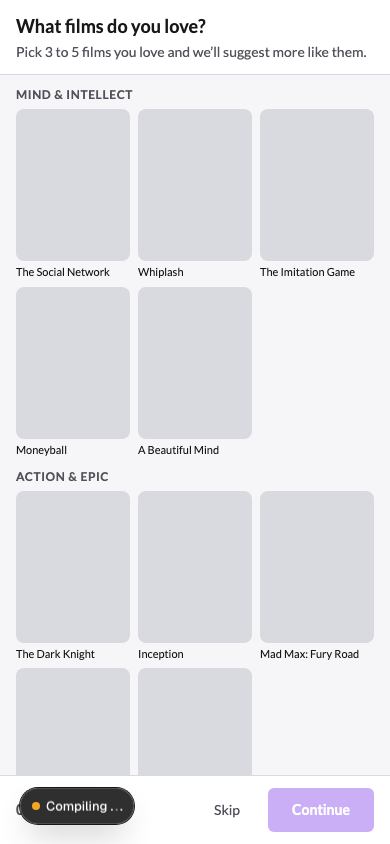
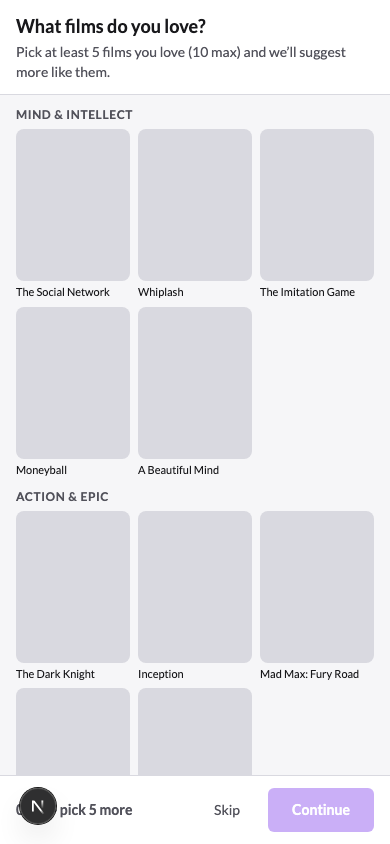
Require 5 picks, allow up to 10 in the onboarding pickers

diff --git a/app/onboarding/page.tsx b/app/onboarding/page.tsx
@@ -73,7 +73,7 @@ export default function OnboardingPage() {
   if (status === "loading" || status === "unauthenticated") return null;
 
   const count = selected.size;
-  const canSubmit = count >= 3 && count <= 5;
+  const canSubmit = count >= 10 && count <= 10;
 
   return (
     <div className="min-h-screen flex flex-col">
@@ -85,7 +85,7 @@ export default function OnboardingPage() {
               What films do you love?
             </h1>
             <p className="text-sm mt-0.5" style={{ color: "var(--text-muted)" }}>
-              Pick 3 to 5 films you love and we’ll suggest more like them
+              Pick at least 5 films (up to 10) you love and we’ll suggest more like them
             </p>
           </div>
           <div className="flex items-center gap-4">
@@ -96,7 +96,7 @@ export default function OnboardingPage() {
                 color: canSubmit ? "var(--color-accent-text)" : "var(--text-muted)",
               }}
             >
-              {count} / 5 selected
+              {count} / 10 selected
             </span>
             <button
               onClick={() => submit(false)}
@@ -133,11 +133,11 @@ export default function OnboardingPage() {
                   <button
                     key={movie.id}
                     onClick={() => toggle(movie.id)}
-                    disabled={!isSelected && count >= 5}
+                    disabled={!isSelected && count >= 10}
                     className="relative rounded-lg overflow-hidden group transition-all duration-200"
                     style={{
                       boxShadow: isSelected ? `0 0 0 3px var(--accent), 0 0 20px color-mix(in srgb, var(--accent) 40%, transparent)` : "none",
-                      opacity: !isSelected && count >= 5 ? 0.4 : 1,
+                      opacity: !isSelected && count >= 10 ? 0.4 : 1,
                     }}
                     title={movie.title}
                   >

diff --git a/components/movies/OnboardingModal.tsx b/components/movies/OnboardingModal.tsx
@@ -4,8 +4,8 @@ import { useState, useEffect } from "react";
 import Image from "next/image";
 import { ONBOARDING_CLUSTERS as CLUSTERS } from "@/lib/onboarding";
 
-const MIN_PICKS = 3;
-const MAX_PICKS = 5;
+const MIN_PICKS = 5;
+const MAX_PICKS = 10;
 const POSTER_BASE = "https://image.tmdb.org/t/p/w342";
 
 interface OnboardingModalProps {
@@ -100,7 +100,7 @@ export default function OnboardingModal({ onClose }: OnboardingModalProps) {
             What films do you love?
           </h1>
           <p className="text-sm mt-0.5" style={{ color: "var(--text-muted)" }}>
-            Pick {MIN_PICKS} to {MAX_PICKS} films you love and we’ll suggest more like them.
+            Pick at least {MIN_PICKS} films you love ({MAX_PICKS} max) and we’ll suggest more like them.
           </p>
         </div>
       </div>
@@ -191,7 +191,9 @@ export default function OnboardingModal({ onClose }: OnboardingModalProps) {
               style={{ color: canSubmit ? "var(--color-accent-text)" : "var(--text-muted)" }}
               aria-live="polite"
             >
-              {count} of {MAX_PICKS}{count < MIN_PICKS ? ` · pick ${MIN_PICKS - count} more` : ""}
+              {count < MIN_PICKS
+                ? `${count} of ${MIN_PICKS} · pick ${MIN_PICKS - count} more`
+                : `${count} picked, up to ${MAX_PICKS} for better picks`}
             </span>
             <button
               type="button"

diff --git a/e2e/smoke.e2e.ts b/e2e/smoke.e2e.ts
@@ -140,10 +140,10 @@ test("first-run onboarding picker works on a phone: titles shown, 5-pick cap, Es
   }));
   console.log(`onboarding scroll area: ${scrollH}px over a ${clientH}px viewport`);
 
-  // A 6th pick is blocked with a hint
-  for (let i = 0; i < 6; i++) await dialog.getByRole("button", { pressed: false }).nth(i).click();
-  await expect(dialog.getByRole("button", { pressed: true })).toHaveCount(5);
-  await expect(dialog.getByRole("alert")).toContainText("up to 5");
+  // A 11th pick is blocked with a hint
+  for (let i = 0; i < 11; i++) await dialog.getByRole("button", { pressed: false }).nth(i).click();
+  await expect(dialog.getByRole("button", { pressed: true })).toHaveCount(10);
+  await expect(dialog.getByRole("alert")).toContainText("up to 10");
 
   // Escape closes the dialog
   await page.keyboard.press("Escape");
